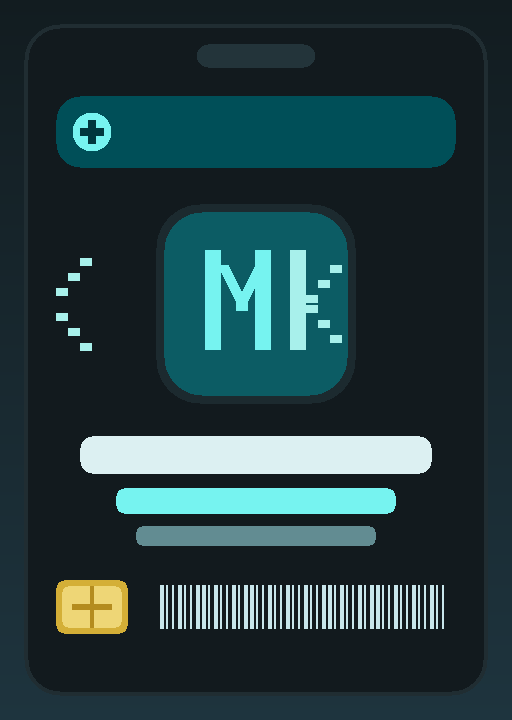
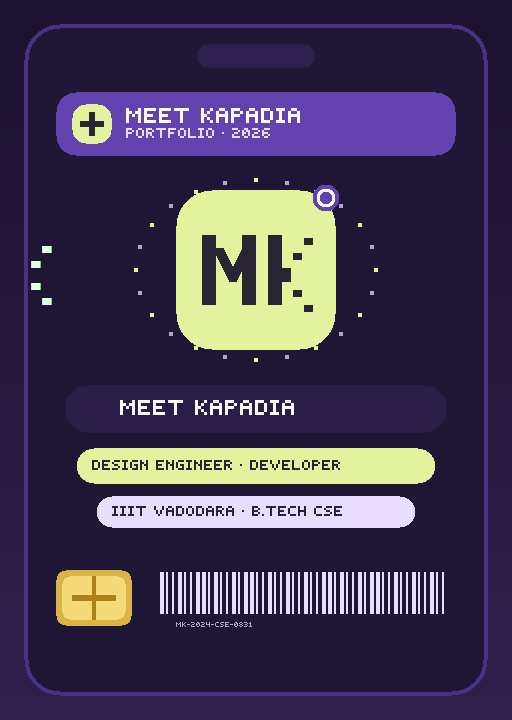
style(card): update lanyard card and strap to match Material 3 Expressive violet and lime theme

diff --git a/portfolio/components/motion/intro-loader.tsx b/portfolio/components/motion/intro-loader.tsx
@@ -122,14 +122,14 @@ export function IntroLoader() {
             backImage="/card-back.png"
             strapImage="/band.png"
             imageFit="cover"
-            cardColor="#ffffff"
+            cardColor="#2A1D47"
             orientation="portrait"
             finish="glossy"
             cornerRadius={0.3}
             size={0.6}
             anchor="center"
             strapLength={0.5}
-            strapColor="#111111"
+            strapColor="#1F1535"
             strapWidth={0.65}
             metal="silver"
             gravity={1}
